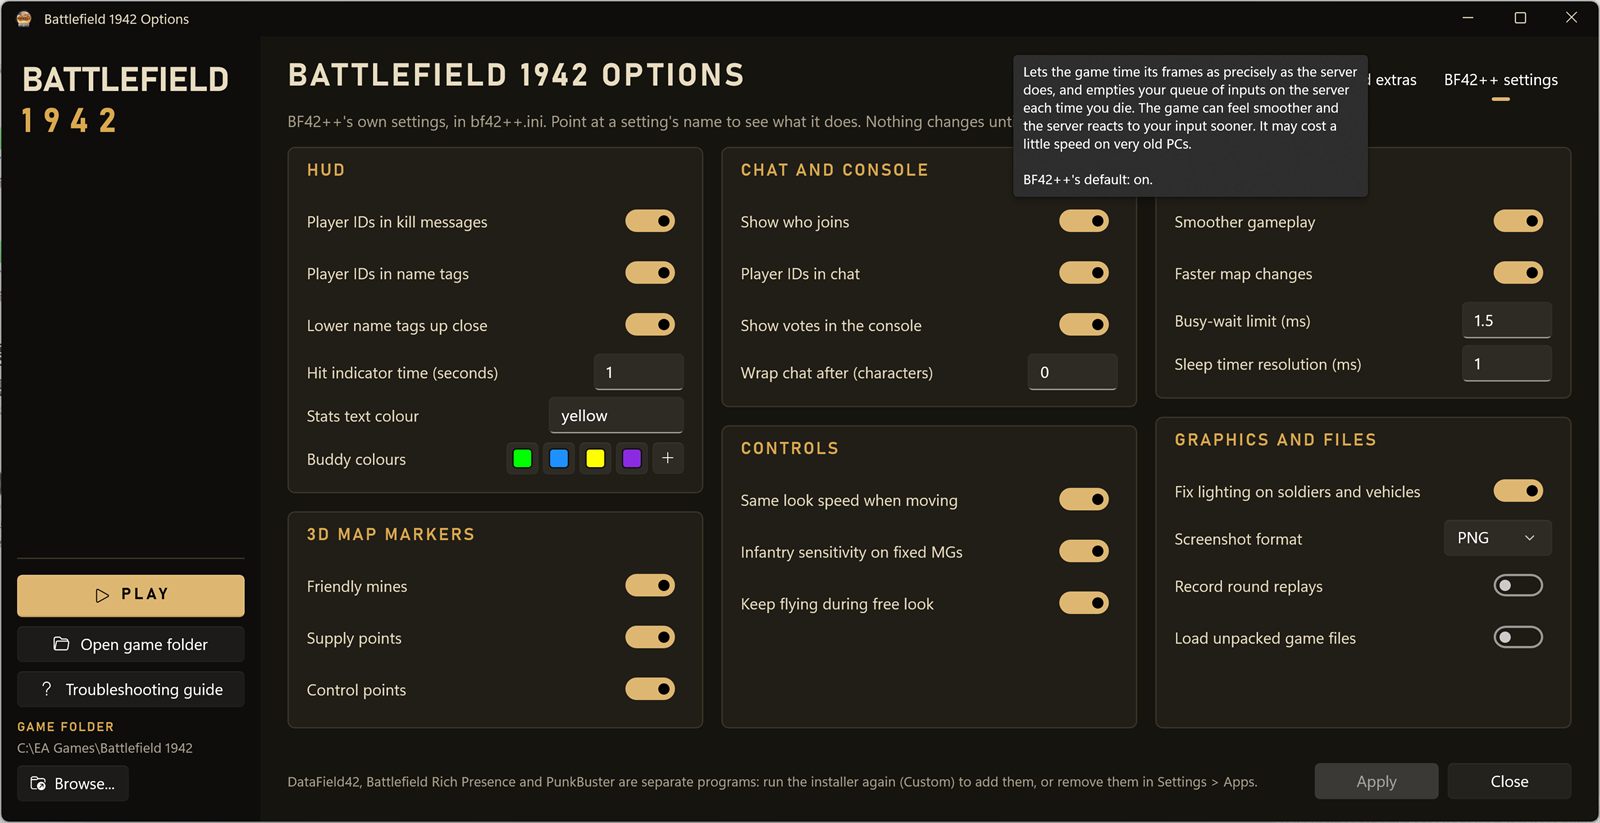
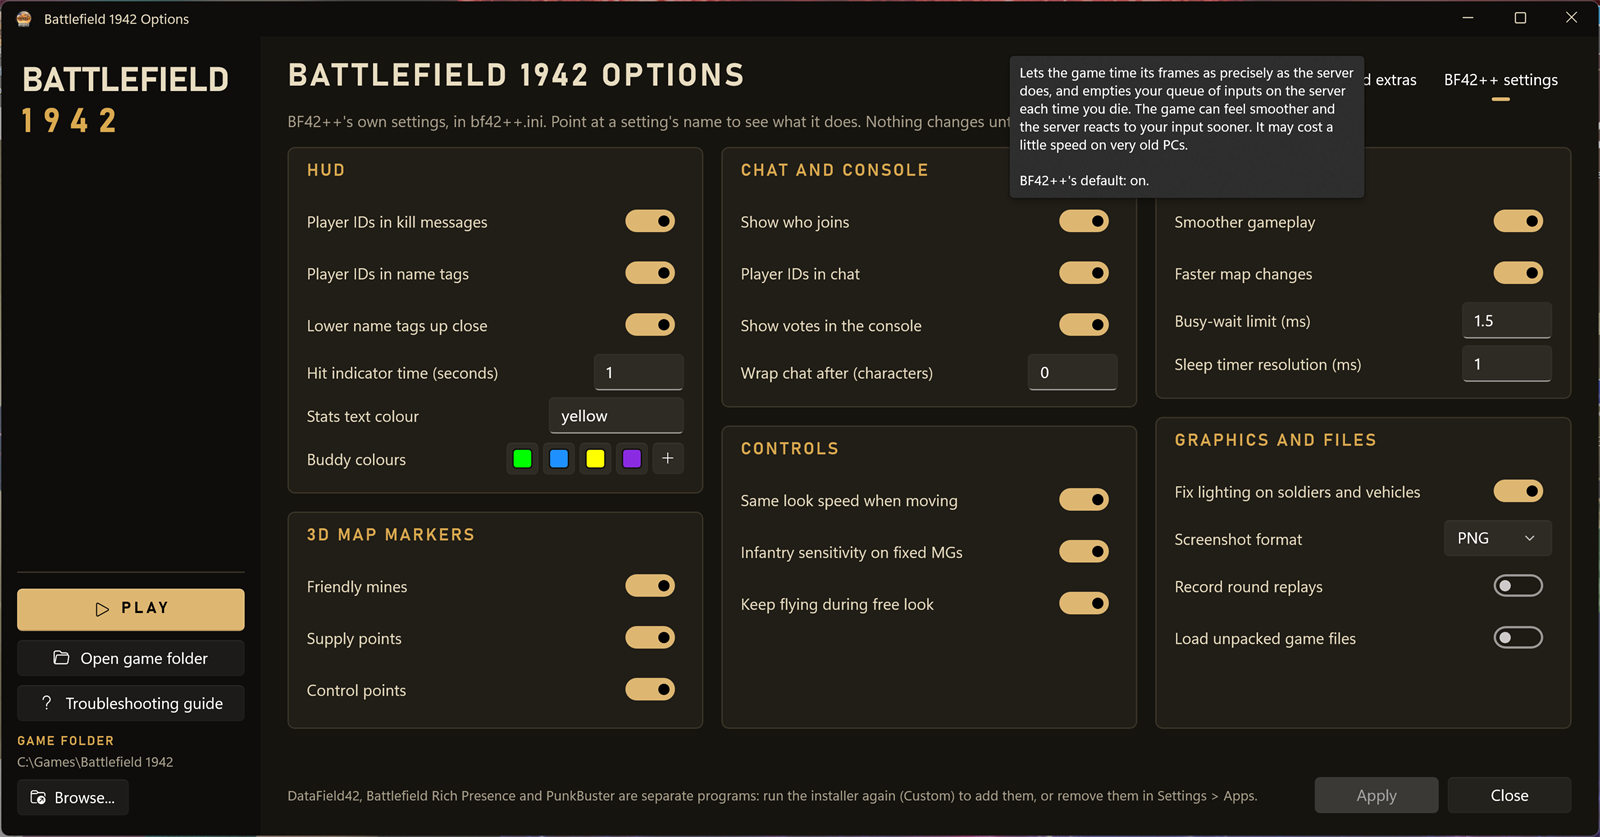
New screenshots: Fixes and extras, BF42++ settings, a standalone copy's Set up message and its Programs tab

diff --git a/README.md b/README.md
@@ -60,6 +60,8 @@ The left side has **Play**, **Join** (when the installer has a server shortcut),
 
 `.\build.ps1 -Standalone` in BF1942-Installer writes `output\BF1942-Options-Standalone.zip`: the app, with an `options.json` that uses a state key of its own (`SOFTWARE\BF1942 Options`), and the library Setup would keep in the game folder in `Library` next to the exe. The app counts as standalone when `Library\BF42++` is there.
 
+![A standalone copy opened on a game folder without a library: the switches are off and the message at the bottom offers Set up](docs/screenshot-setup.png)
+
 1. Players extract the zip anywhere and run `BF1942 Options.exe`. It opens the folder from the game's registry entry or the one it was extracted in, or they click **Browse...**.
 2. In a folder without an `Options` library, **Set up** copies `Library` to `Options` in the game folder. `Options\Originals` gets the folder's own `menu.rfa` and `Battle_of_Britain.rfa`, unless they are the modified ones already (then the library's originals are used, when the build had a game folder). The game itself doesn't change.
 3. From then on the folder works like one Setup installed: the switches show what is on, and **Apply** changes it. Files that are neither fix, like another `d3d8.dll`, show as *neither DXVK nor dgVoodoo2* until a fix is picked. Every file of the folder's own that Apply replaces or removes (DLLs, `Font.rfa`, ...) is kept in `Options\Backup` first.
@@ -69,6 +71,8 @@ An extra that is on already in a folder with no original to go back to (for exam
 ### The Programs tab
 
 A standalone copy also has the installers of everything else Setup's components page offers, in `Programs` next to the exe, with `programs.json` naming each one's file and version. Its third tab, **Programs**, has a card for each, with what is installed now and **Install** (or **Repair**, **Update**, **Turn on**) and **Remove**. `Programs.cs` does what Setup and its uninstaller do (`installer\BF1942-Installer.iss` in BF1942-Installer), and logs it to `Options.log`:
+
+![The Programs tab: the DirectX runtime, DirectPlay, Battlefield Rich Presence, the Visual C++ Redistributable, DataField42 and PunkBuster, each with what is installed now and its buttons](docs/screenshot-programs.png)
 
 | Program | Install | Remove |
 |---|---|---|
